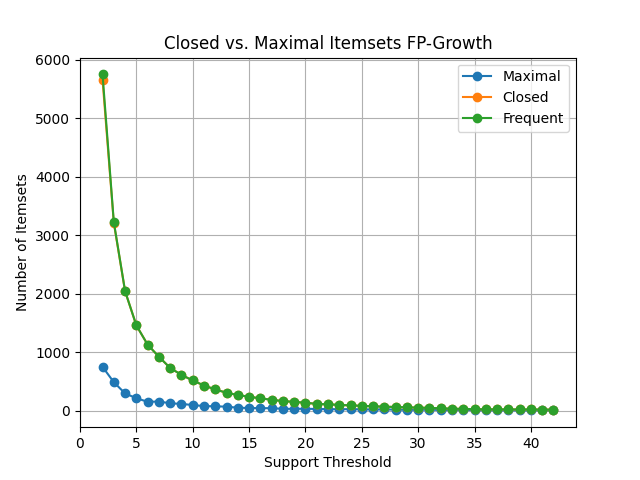
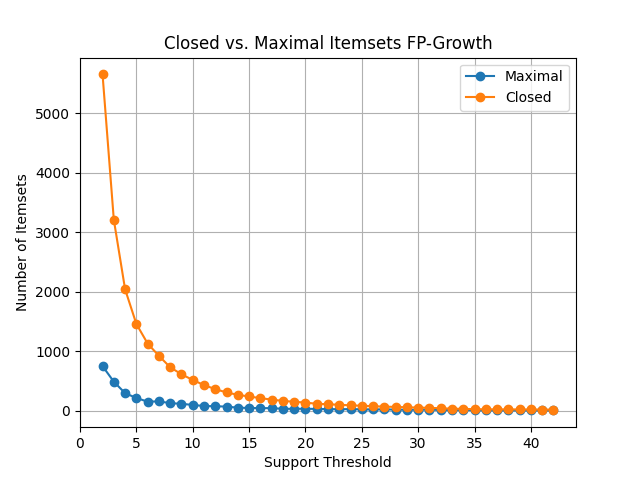
images

diff --git a/src/patterMining/fpgrowth/fpgrowth.py b/src/patterMining/fpgrowth/fpgrowth.py
@@ -51,7 +51,7 @@ for i in range(2, int(max_supp)):
 # Plotting as a line chart
 plt.plot(support_thresholds, len_max_it, label='Maximal', marker='o')
 plt.plot(support_thresholds, len_cl_it, label='Closed', marker='o')
-plt.plot(support_thresholds, len_fr_it, label='Frequent', marker='o')
+#plt.plot(support_thresholds, len_fr_it, label='Frequent', marker='o')
 
 plt.xlabel('Support Threshold')
 plt.ylabel('Number of Itemsets')
